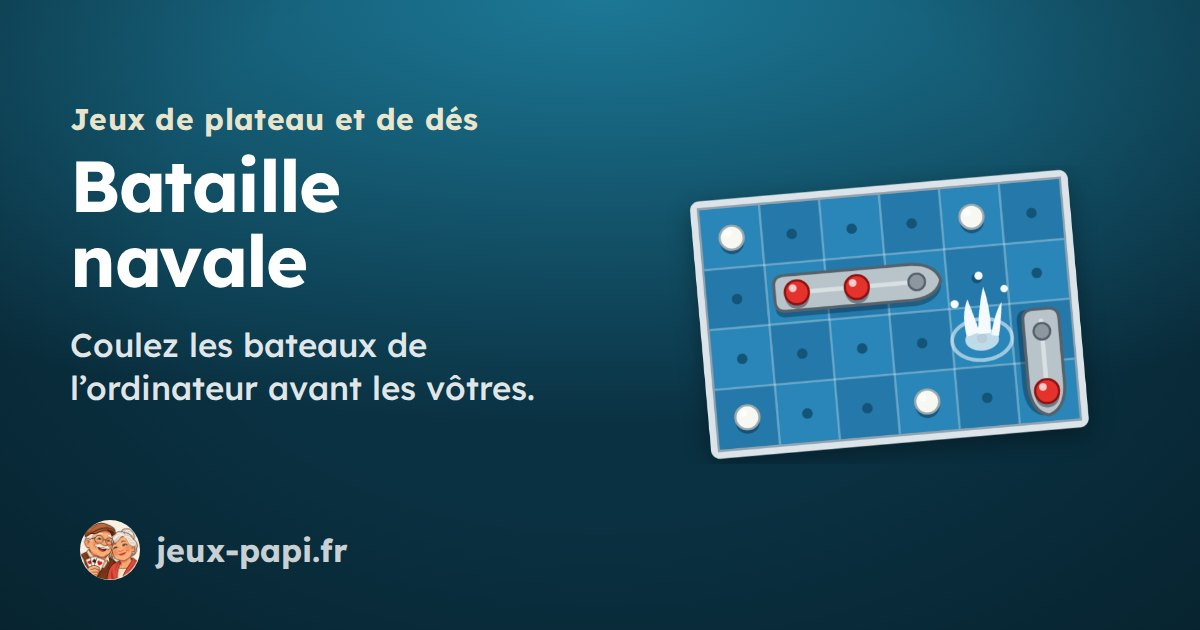
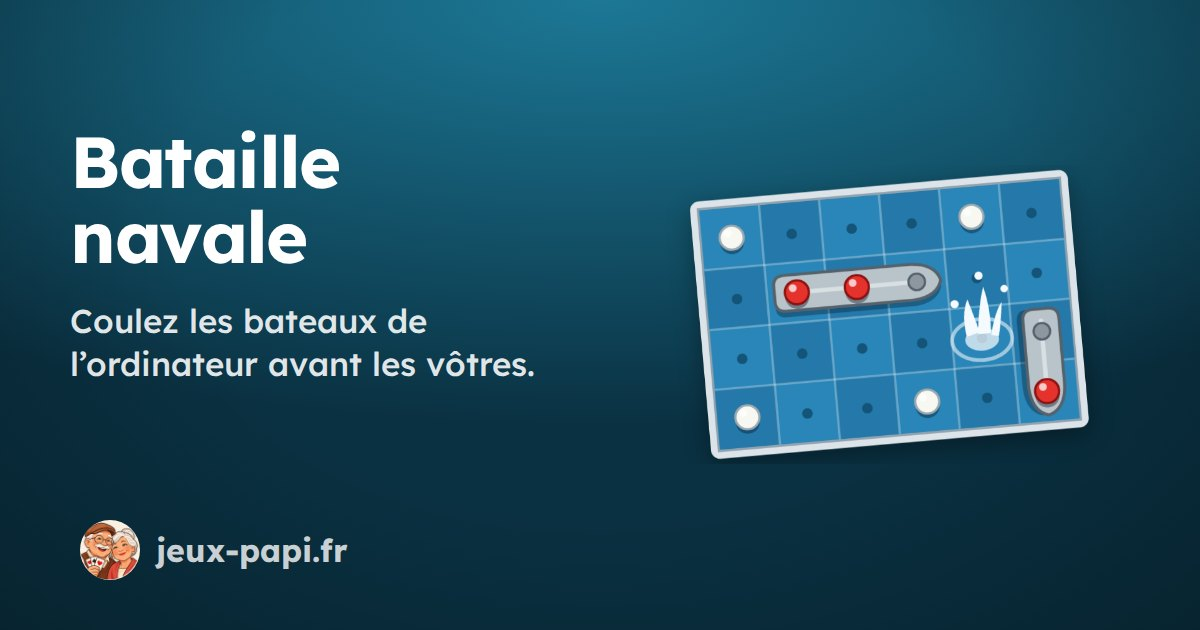
Remove the small titles above the game preview titles and the blog's first article, and state the billard's line plainly

Changed region(s): [[0.0617, 0.1508, 0.4008, 0.4524], [0.0617, 0.4825, 0.4625, 0.6333]]

diff --git a/public/billard/regles/index.html b/public/billard/regles/index.html
@@ -89,7 +89,7 @@
     <article class="rules-article">
       <section id="but">
         <h2>Le but du jeu</h2>
-        <p>Vous jouez contre René. Il y a sept billes pleines, de 1 à 7, et sept billes rayées, de 9 à 15. Le premier qui rentre une bille prend sa famille, les pleines ou les rayées. L’autre joueur prend l’autre famille. Rentrez vos sept billes, puis la noire, avant René.</p>
+        <p>Vous jouez contre l’ordinateur, René. Il y a sept billes pleines, de 1 à 7, et sept billes rayées, de 9 à 15. Le premier qui rentre une bille prend sa famille, les pleines ou les rayées. L’autre joueur prend l’autre famille. Rentrez vos sept billes, puis la noire, avant René.</p>
         <figure class="diagram"><div class="diagram-art" aria-hidden="true"><div class="diagram-part"><svg viewBox="0 0 242 40" width="242"><circle cx="19" cy="20" r="15" fill="#F2BE14" stroke="#1b2422" stroke-width="1.5"/><circle cx="19" cy="20" r="8.2" fill="#fff"/><text x="19" y="23.8" text-anchor="middle" font-family="Lexend, Segoe UI, sans-serif" font-size="10.8" font-weight="800" fill="#1b2422">1</text><circle cx="53" cy="20" r="15" fill="#1E4CB2" stroke="#1b2422" stroke-width="1.5"/><circle cx="53" cy="20" r="8.2" fill="#fff"/><text x="53" y="23.8" text-anchor="middle" font-family="Lexend, Segoe UI, sans-serif" font-size="10.8" font-weight="800" fill="#1b2422">2</text><circle cx="87" cy="20" r="15" fill="#CE242C" stroke="#1b2422" stroke-width="1.5"/><circle cx="87" cy="20" r="8.2" fill="#fff"/><text x="87" y="23.8" text-anchor="middle" font-family="Lexend, Segoe UI, sans-serif" font-size="10.8" font-weight="800" fill="#1b2422">3</text><circle cx="121" cy="20" r="15" fill="#5C2D8C" stroke="#1b2422" stroke-width="1.5"/><circle cx="121" cy="20" r="8.2" fill="#fff"/><text x="121" y="23.8" text-anchor="middle" font-family="Lexend, Segoe UI, sans-serif" font-size="10.8" font-weight="800" fill="#1b2422">4</text><circle cx="155" cy="20" r="15" fill="#F07616" stroke="#1b2422" stroke-width="1.5"/><circle cx="155" cy="20" r="8.2" fill="#fff"/><text x="155" y="23.8" text-anchor="middle" font-family="Lexend, Segoe UI, sans-serif" font-size="10.8" font-weight="800" fill="#1b2422">5</text><circle cx="189" cy="20" r="15" fill="#12804A" stroke="#1b2422" stroke-width="1.5"/><circle cx="189" cy="20" r="8.2" fill="#fff"/><text x="189" y="23.8" text-anchor="middle" font-family="Lexend, Segoe UI, sans-serif" font-size="10.8" font-weight="800" fill="#1b2422">6</text><circle cx="223" cy="20" r="15" fill="#801E22" stroke="#1b2422" stroke-width="1.5"/><circle cx="223" cy="20" r="8.2" fill="#fff"/><text x="223" y="23.8" text-anchor="middle" font-family="Lexend, Segoe UI, sans-serif" font-size="10.8" font-weight="800" fill="#1b2422">7</text></svg><span>Les pleines, de 1 à 7</span></div><div class="diagram-part"><svg viewBox="0 0 242 40" width="242"><circle cx="19" cy="20" r="15" fill="#faf7ec" stroke="#1b2422" stroke-width="1.5"/><path d="M5.9 12.5H32.0A15 15 0 0 1 32.0 27.5H5.9A15 15 0 0 1 5.9 12.5z" fill="#F2BE14"/><circle cx="19" cy="20" r="8.2" fill="#fff"/><text x="19" y="23.8" text-anchor="middle" font-family="Lexend, Segoe UI, sans-serif" font-size="10.8" font-weight="800" fill="#1b2422">9</text><circle cx="53" cy="20" r="15" fill="#faf7ec" stroke="#1b2422" stroke-width="1.5"/><path d="M40.0 12.5H66.0A15 15 0 0 1 66.0 27.5H40.0A15 15 0 0 1 40.0 12.5z" fill="#1E4CB2"/><circle cx="53" cy="20" r="8.2" fill="#fff"/><text x="53" y="23.8" text-anchor="middle" font-family="Lexend, Segoe UI, sans-serif" font-size="9.3" font-weight="800" fill="#1b2422">10</text><circle cx="87" cy="20" r="15" fill="#faf7ec" stroke="#1b2422" stroke-width="1.5"/><path d="M74.0 12.5H100.0A15 15 0 0 1 100.0 27.5H74.0A15 15 0 0 1 74.0 12.5z" fill="#CE242C"/><circle cx="87" cy="20" r="8.2" fill="#fff"/><text x="87" y="23.8" text-anchor="middle" font-family="Lexend, Segoe UI, sans-serif" font-size="9.3" font-weight="800" fill="#1b2422">11</text><circle cx="121" cy="20" r="15" fill="#faf7ec" stroke="#1b2422" stroke-width="1.5"/><path d="M108.0 12.5H134.1A15 15 0 0 1 134.1 27.5H108.0A15 15 0 0 1 108.0 12.5z" fill="#5C2D8C"/><circle cx="121" cy="20" r="8.2" fill="#fff"/><text x="121" y="23.8" text-anchor="middle" font-family="Lexend, Segoe UI, sans-serif" font-size="9.3" font-weight="800" fill="#1b2422">12</text><circle cx="155" cy="20" r="15" fill="#faf7ec" stroke="#1b2422" stroke-width="1.5"/><path d="M141.9 12.5H168.1A15 15 0 0 1 168.1 27.5H141.9A15 15 0 0 1 141.9 12.5z" fill="#F07616"/><circle cx="155" cy="20" r="8.2" fill="#fff"/><text x="155" y="23.8" text-anchor="middle" font-family="Lexend, Segoe UI, sans-serif" font-size="9.3" font-weight="800" fill="#1b2422">13</text><circle cx="189" cy="20" r="15" fill="#faf7ec" stroke="#1b2422" stroke-width="1.5"/><path d="M175.9 12.5H202.1A15 15 0 0 1 202.1 27.5H175.9A15 15 0 0 1 175.9 12.5z" fill="#12804A"/><circle cx="189" cy="20" r="8.2" fill="#fff"/><text x="189" y="23.8" text-anchor="middle" font-family="Lexend, Segoe UI, sans-serif" font-size="9.3" font-weight="800" fill="#1b2422">14</text><circle cx="223" cy="20" r="15" fill="#faf7ec" stroke="#1b2422" stroke-width="1.5"/><path d="M209.9 12.5H236.1A15 15 0 0 1 236.1 27.5H209.9A15 15 0 0 1 209.9 12.5z" fill="#801E22"/><circle cx="223" cy="20" r="8.2" fill="#fff"/><text x="223" y="23.8" text-anchor="middle" font-family="Lexend, Segoe UI, sans-serif" font-size="9.3" font-weight="800" fill="#1b2422">15</text></svg><span>Les rayées, de 9 à 15</span></div><div class="diagram-part"><svg viewBox="0 0 38 40" width="38"><circle cx="19" cy="20" r="15" fill="#161618" stroke="#1b2422" stroke-width="1.5"/><circle cx="19" cy="20" r="8.2" fill="#fff"/><text x="19" y="23.8" text-anchor="middle" font-family="Lexend, Segoe UI, sans-serif" font-size="10.8" font-weight="800" fill="#1b2422">8</text></svg><span>La noire, en dernier</span></div></div><figcaption>Sur la droite de la table, chaque joueur voit ses billes. Une bille rentrée devient un rond en pointillés.</figcaption></figure>
       </section>
 

diff --git a/public/billard/index.html b/public/billard/index.html
@@ -4,14 +4,14 @@
 <meta charset="utf-8">
 <meta name="viewport" content="width=device-width, initial-scale=1">
 <title>Billard américain · Jeux de Papi</title>
-<meta name="description" content="Le billard du café, contre René : rentrez vos sept billes, puis la noire.">
+<meta name="description" content="Rentrez vos sept billes, puis la noire, contre l’ordinateur.">
 <link rel="canonical" href="https://jeux-papi.fr/billard/">
 <meta property="og:type" content="website">
 <meta property="og:site_name" content="Jeux de Papi">
 <meta property="og:locale" content="fr_FR">
 <meta property="og:url" content="https://jeux-papi.fr/billard/">
 <meta property="og:title" content="Billard américain · Jeux de Papi">
-<meta property="og:description" content="Le billard du café, contre René : rentrez vos sept billes, puis la noire.">
+<meta property="og:description" content="Rentrez vos sept billes, puis la noire, contre l’ordinateur.">
 <meta property="og:image" content="https://jeux-papi.fr/og/jeux/billard.jpg">
 <meta property="og:image:alt" content="Billard américain, sur Jeux de Papi.">
 <meta property="og:image:width" content="1200">

diff --git a/public/index.html b/public/index.html
@@ -244,7 +244,7 @@ const GAMES = [
     felt: ['#1C7896', '#0A3142'], scene: seaArt },
   { id: 'bowling', family: 'adresse', title: 'Bowling', text: 'Dix tours sur une vraie piste : faites tomber les quilles à votre rythme.',
     felt: ['#3C3F8E', '#1B1C4A'], scene: () => '<img src="bowling/icon.svg" alt="" style="width:100%;height:100%">' },
-  { id: 'billard', family: 'adresse', title: 'Billard américain', text: 'Le billard du café, contre René : rentrez vos billes, puis la noire.',
+  { id: 'billard', family: 'adresse', title: 'Billard américain', text: 'Rentrez vos sept billes, puis la noire, contre l’ordinateur.',
     felt: ['#7A3A22', '#3A170B'], scene: () => '<img src="billard/icon.svg" alt="" style="width:100%;height:100%">' },
   { id: 'golf', family: 'adresse', title: 'Golf miniature', text: 'Neuf nouveaux trous à chaque partie : visez le drapeau à votre rythme.',
     felt: ['#3f7d55', '#1d4634'], scene: () => '<img src="golf/icon.svg" alt="" style="width:100%;height:100%">' },

diff --git a/public/blog/blog.css b/public/blog/blog.css
@@ -2,7 +2,6 @@
    the same width, the same coloured header, the contents on the left and the text in cards on the right.
    This file adds only what a rules page does not have. */
 
-.blog-kicker { margin: 0 0 .5rem; font-size: 20px; font-weight: 600; }
 
 /* The article as a card in the list. The title is the one link, and it covers the whole card. */
 .feature {
@@ -13,7 +12,6 @@
   background: var(--card);
 }
 .feature > :last-child { margin-bottom: 0; }
-.feature .blog-kicker { color: var(--guide-ink); }
 .feature h2 { margin-bottom: 1rem; font-size: clamp(1.7rem, 2.8vw, 2.4rem); }
 .feature h2 a { color: #1b2422; text-decoration: none; }
 .feature h2 a::after { content: ""; position: absolute; inset: 0; border-radius: 16px; }

diff --git a/public/blog/index.html b/public/blog/index.html
@@ -88,7 +88,6 @@
     </nav>
     <div class="rules-article">
       <article class="feature">
-        <p class="blog-kicker">Pour bien commencer</p>
         <h2><a href="jeux-pour-seniors/">Jeux pour seniors en ligne, par où commencer ?</a></h2>
         <p>Six jeux de cartes, de lettres, de dés et de logique, avec le premier geste à faire dans chacun.</p>
         <ul class="feature-games" aria-label="Les jeux de l’article">
